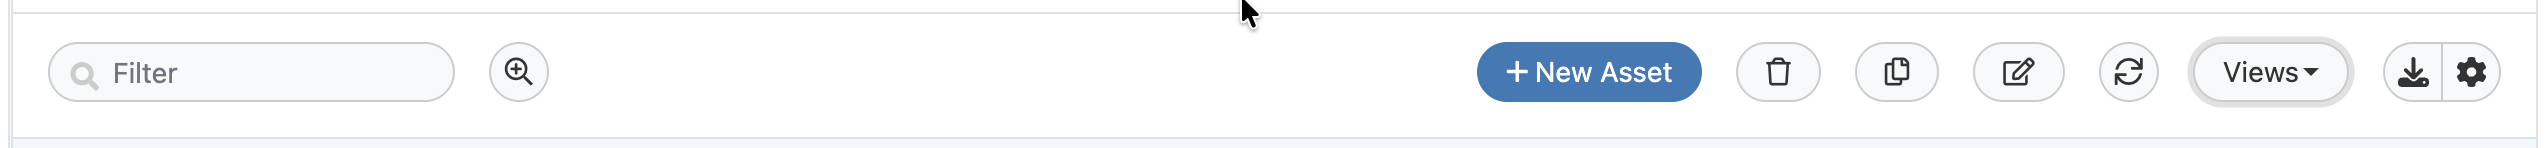
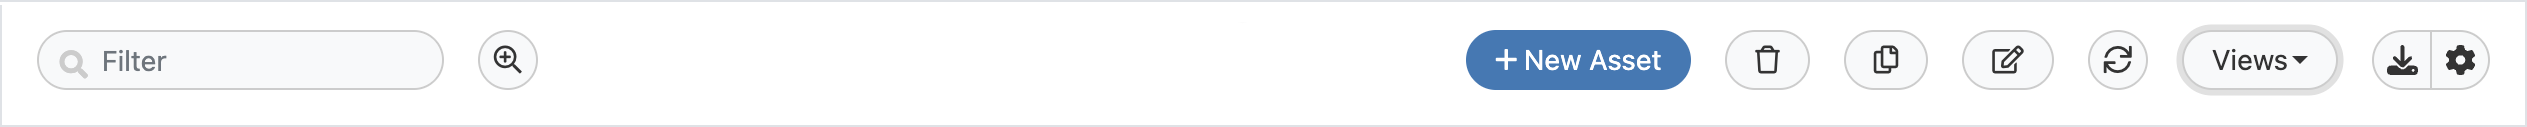
Assets
* Improved description in the overview page.
* Cleaned up toolbar image in asset list doc.
* Restructured heading levels in asset list doc
* Improved wording and and simplified several areas in the in asset list doc.

diff --git a/servicemanager-user-guide/asset-management/asset-list.md b/servicemanager-user-guide/asset-management/asset-list.md
@@ -8,35 +8,23 @@ draft: false
 [[INCLUDE https://raw.githubusercontent.com/Hornbill-Docs/hdoc-library/main/hdoc-library/service-manager/new-assets-note.md]]
 :::
 
-Within an asset list, you can search for assets, open records, and view details. You can also copy asset records, create assets in batches, and apply bulk changes.
+Asset lists are available when selecting the [All Assets view](/servicemanager-user-guide/asset-management/overview#asset-views) or when an [asset type](/servicemanager-user-guide/asset-management/overview#asset-navigation) is selected from the navigation panel.
 
-## Toolbar features
+## Features
 
 This section describes the actions you can take using the toolbar in the assets list.
 
 ![Toolbar in assets list](/_books/servicemanager-user-guide/asset-management/images/toolbar-in-assets-list.png)
 
-* **Filter.** Use this filter to quickly focus on those asset records that are important to you. The filter operates on the asset records in the current list and returns records where a match is found in any of the asset attributes.
+### Filter
 
-    To search on the [class-specific attributes](/servicemanager-config/assets/asset-structure#asset-classes) of an asset record, you must be viewing a class-specific list. The quick filter searches all asset attributes regardless of whether the attribute is displayed in your list view. The filter does not operate on attributes containing a date-time value, state, location type, acquisition method, or depreciation method. (You can, however, sort on these columns to identify the records of interest).
+The filter operates on the asset records in the current list and returns records where a match is found in any of the asset attributes. To filter on attributes that are specific to an asset type, you must be viewing a list of that asset type. The filter does not operate on attributes containing a date-time value, state, location type, acquisition method, or depreciation method. (You can, however, sort on these columns to identify the records of interest).
 
-* **Advanced search.** Click **Advanced** (the search button to the right of the quick filter) to filter assets based on one or more conditions that you define. <!--Before adding your first condition, make sure you select the appropriate asset class from the class selector. -->Once you start adding the first condition, the asset class will be locked to the current asset class and the matching fields for that asset class will be available when adding conditions. Once conditions are set, use the quick filter to filter the results, or save the search as one of your views.
-<!--* **Class selector.** Switch between Asset Classes or All Assets by selecting the relevant option. (Note that the list columns will change to reflect those configured for each asset class).-->
-* **Create assets.** See [Creating assets manually](/servicemanager-user-guide/asset-management/assets#creating-assets-manually).
-* **Delete assets.** See [Deleting assets](/servicemanager-user-guide/asset-management/assets#deleting-assets).
-* **Copy assets.** See [Copying assets](/servicemanager-user-guide/asset-management/assets#copying-assets).
-* **Bulk update.** See [Doing bulk updates](/servicemanager-user-guide/asset-management/assets#doing-bulk-updates).
-* **Reload list.** To manually refresh the assets list, click **Reload list**.
-* **Views.** See [Adding views of assets](/servicemanager-user-guide/asset-management/assets#adding-views-of-assets).
-* **Export List.** See [Exporting the assets list](/servicemanager-user-guide/asset-management/assets#exporting-the-assets-list).<!--* **Home View.** Click **Home View** > **Set current view as my Home** to create a preferred or default view of your Assets List. Your Home View is displayed when you first visit your Assets List, and with a single click you can return to your Home View from any other filter or view that you have applied.-->
-* **Table Configuration.** See [Displaying columns in the assets list](/servicemanager-user-guide/asset-management/assets#displaying-columns-in-the-assets-list).
+### Advanced filter
 
-### List features
+Click **Advanced** (the search button to the right of the quick filter) to filter assets based on one or more conditions that you define. <!--Before adding your first condition, make sure you select the appropriate asset class from the class selector. -->Once you start adding the first condition, the asset class will be locked to the current asset class and the matching fields for that asset class will be available when adding conditions. Once conditions are set, use the quick filter to filter the results, or save the search as one of your views.
 
-* **Column sorting.** On each column header, you can re-order the list by clicking the column name.
-* **View an asset.** Each asset in the list contains links to open the asset details and the type details.
-
-## Creating assets manually
+### Creating assets manually
 
 You can add an asset individually, or you can add assets in bulk.
 
@@ -65,7 +53,7 @@ If you are creating assets in bulk, the batch will include one new asset (per yo
 
 :::
 
-## Deleting assets
+### Deleting assets
 
 The **Delete** button is invisible until at least one asset has been selected using the multi-select checkboxes.
 
@@ -78,7 +66,7 @@ The **Delete** button is invisible until at least one asset has been selected us
 To select multiple assets, click on one asset, and then while holding down the Shift key, select another asset. All assets between these two assets will be selected and available for deleting.
 :::
 
-## Copying assets
+### Copying assets
 
 The **Copy** button is invisible until one and only one asset has been selected using the multi-select checkboxes.
 
@@ -89,7 +77,7 @@ The **Copy** button is invisible until one and only one asset has been selected 
 1. Click **Duplicate**.
 1. When you are finished reading the confirmation message, click **Close**.
 
-## Doing bulk updates
+### Doing bulk updates
 
 You can make changes to multiple asset records at once. You can update shared asset fields across assets of any type from the asset list.
 
@@ -108,7 +96,7 @@ You can make changes to multiple asset records at once. You can update shared as
         * **Batch Update.** This update is very fast. It performs a direct database write.
         * **Audited Update.** This is an API update that is slightly slower, but still fast. This one updates assets one at a time, creating a full audit history, including who made the change, when it occurred, and what data was modified.
 
-## Adding views of assets
+### Adding views of assets
 
 You can define and store a number of different views of the assets.
 
@@ -121,7 +109,7 @@ You can define and store a number of different views of the assets.
 
 Now you can quickly access particular sets of important data by selecting from your list of defined views.
 
-## Exporting the assets list
+### Exporting the assets list
 
 Export the contents of the assets list to CSV. Choose which of the available columns on the list you wish to export (the available options are specific to the asset class).
 
@@ -132,7 +120,7 @@ Export the contents of the assets list to CSV. Choose which of the available col
 1. In the Settings tab, specify the export format and the number of records to export.
 1. When finished, click **Export**.
 
-## Displaying columns in the assets list
+### Displaying columns in the assets list
 
 The available columns are specific to the asset type the list is using. The available columns are a combination of the common attributes that all asset types share, and the type-specific attributes for the selected asset type. If you choose to display all assets, only the shared asset attributes will be available to select from.
 

diff --git a/servicemanager-user-guide/asset-management/overview.md b/servicemanager-user-guide/asset-management/overview.md
@@ -7,28 +7,20 @@ layout: article-toc
 [[INCLUDE https://raw.githubusercontent.com/Hornbill-Docs/hdoc-library/main/hdoc-library/service-manager/new-assets-note.md]]
 :::
 
-Use asset management to capture and detail information for your organization's assets. This process includes tracking ownership, costs, relationships, and the life cycle of assets to support strategic decision-making for your IT environment.
+Use asset management to capture and detail information for your organization's assets. This includes tracking ownership, costs, relationships, and the life cycle of assets to support strategic decision-making for your IT environment.
 
-Hornbill Service Manager Asset Management records hardware and software inventory information. This data helps IT teams support asset users and make informed decisions about hardware and software purchases and redistribution.
+Asset data helps IT teams support asset users and make informed decisions about hardware and software purchases and redistribution.
 
-Assets form the foundation of a Configuration Management Database (CMDB). You can use assets within Incident, Problem, and Change processes to assist with incident classification, impact analysis, and change planning.
+Assets form the foundation of a Configuration Management Database (CMDB). You can use assets within incident, problem, and change processes to assist with incident classification, impact analysis, and change planning.
 
 ## Before you begin
 
 To manage assets, you must have one of the following roles and rights:
 
-* The **Asset Management User** role, including the `View Asset Management` application right and either the `Create Assets` or `Edit Assets` right.
-* A custom role that includes the `View Asset Management` application right and either the `Create Assets` or `Edit Assets` right.
-
-:::important
-If asset records are [in a partition set up by your assets admin](/servicemanager-config/assets/manage-partitions), your actions are limited to your granted permissions. If your permissions do not include creating, editing, or deleting, you can only view those records.
-:::
-
-## Key features
-
-* **Manage assets**: Access and update your organization's assets in one central location.
-* **Bulk update assets**: Update a field across multiple assets simultaneously.
-* **Assets under warranty**: View assets based on their warranty status.
+|Role|Description|
+|---|---|
+|Asset Management User|This role allows users to view and manage assets. It includes the `View Asset Management`, `Create Assets` and the `Edit Assets` application rights.|
+|Custom role|A custom role can be created with the necessary application rights to view and manage assets. This allows for more granular control over who can access and modify asset information.|
 
 ## Accessing Assets
 
@@ -39,6 +31,8 @@ From the left-hand application bar, select **Service Management** > **Assets**.
 An [asset partition](/servicemanager-config/assets/manage-partitions) is a group of assets where the access is restricted to selected users or groups. If asset partitions have been set up, you can select a partition to view the assets within it. Any asset not belonging to a partition can be viewed by selecting the **Un-partitioned assets** option.
 
 ![Partition selector](/_books/servicemanager-user-guide/images/assets-partition-selection.png)
+
+Each partition has its own set of permissions.  The ability to view, create, update, and delete assets within a partition will depend on the permissions that you have been given.
 
 ## Asset views
 
@@ -53,6 +47,7 @@ The Assets dashboard displays tiles for available [asset types](/servicemanager-
 * **Current**: Assets with this status are existing assets but are not currently in use.
 * **Active**: Assets with this status are currently in use.
 * **Archived**: Assets with this status are no longer in use and have been archived.
+
   ![Assets dashboard](/_books/servicemanager-user-guide/images/assets-dashboard.png)
 
 ### All Assets
